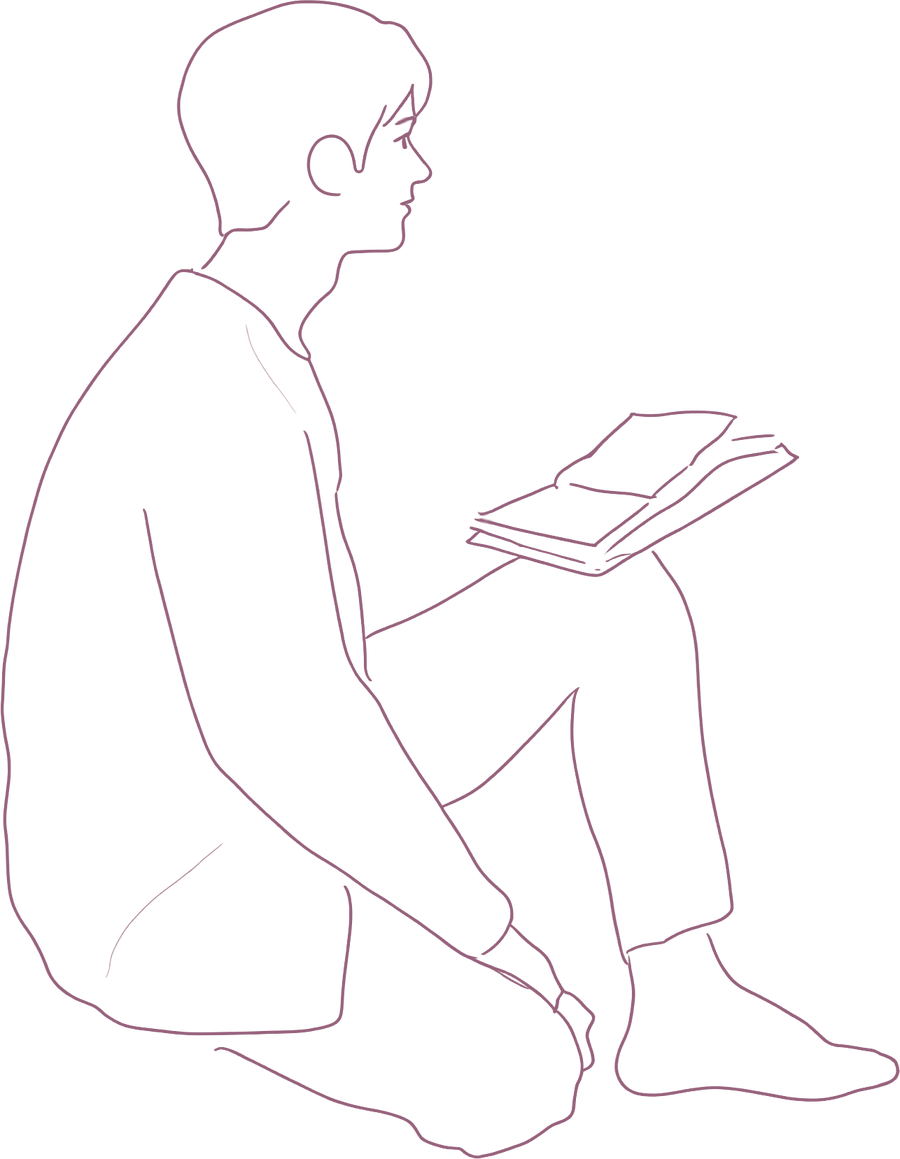
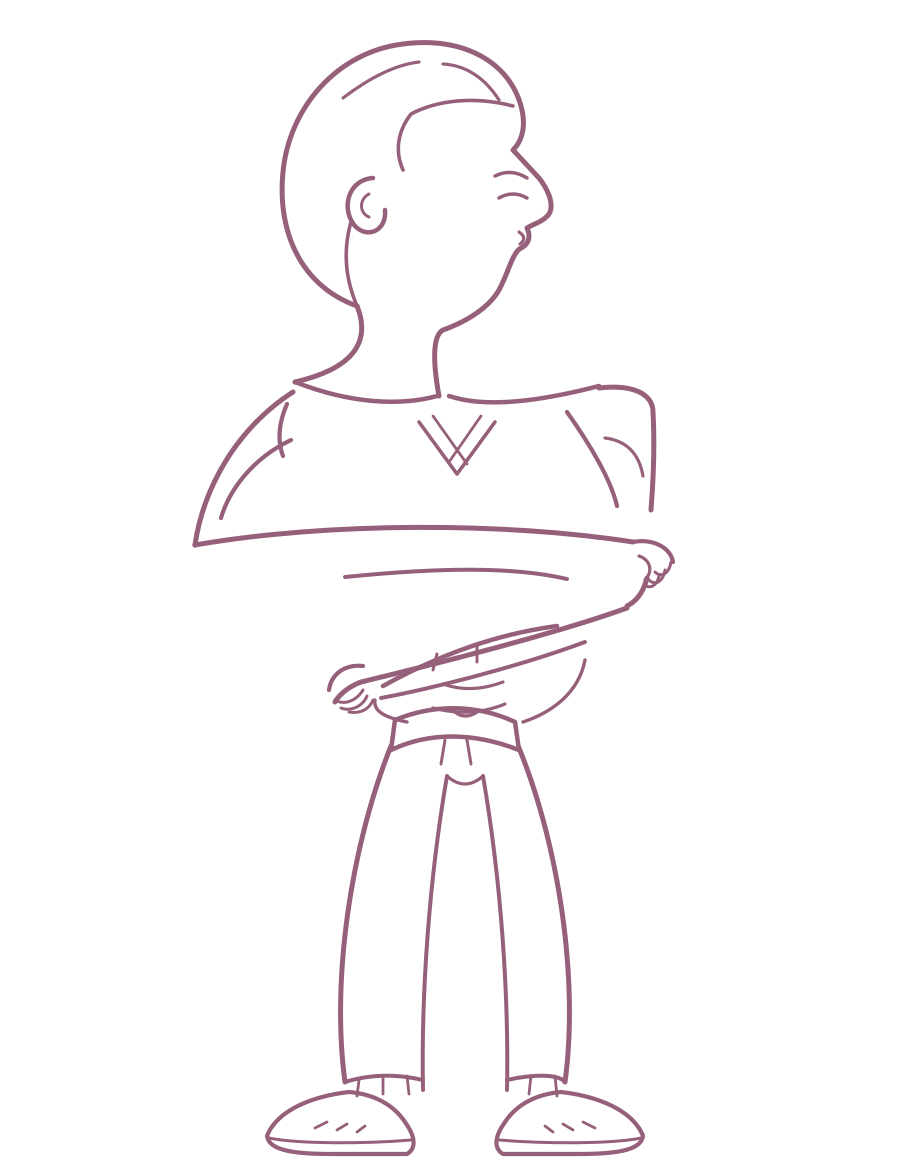
根据真人照片重绘首页线条人物
男生：短发侧脸、V纹运动背心、双臂交叉抓衣摆露腹肌、运动裤板鞋

女生：波浪长发配白花珍珠发饰、珍珠项链、露肩泡泡袖蕾丝婚纱、双手轻提大裙摆

沿用原紫色单线(#96607A)手绘风格与原尺寸；sw.js 缓存升至 v5

diff --git a/sw.js b/sw.js
@@ -1,5 +1,5 @@
 /* Service Worker：HTML 页面网络优先（保证更新即时生效），静态资源缓存优先（离线可用）。 */
-const CACHE_NAME = 'love-wishes-v4';
+const CACHE_NAME = 'love-wishes-v5';
 const CORE_ASSETS = [
   './',
   './index.html',
